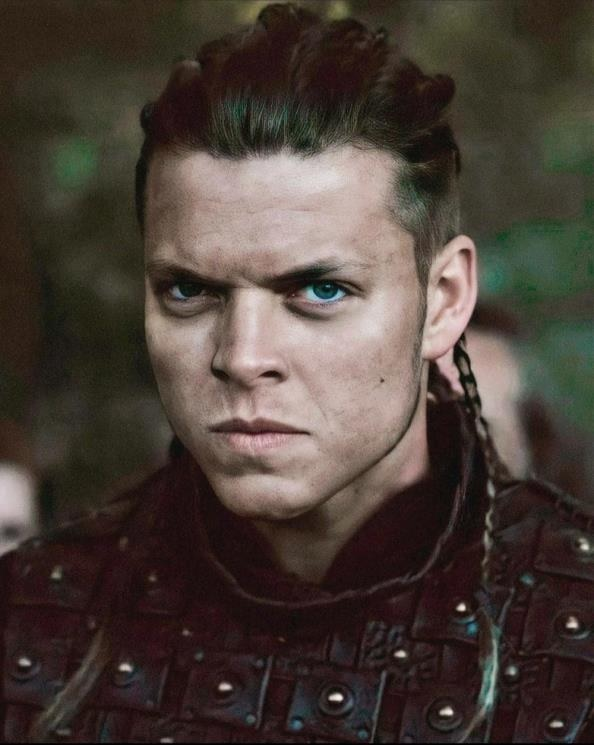
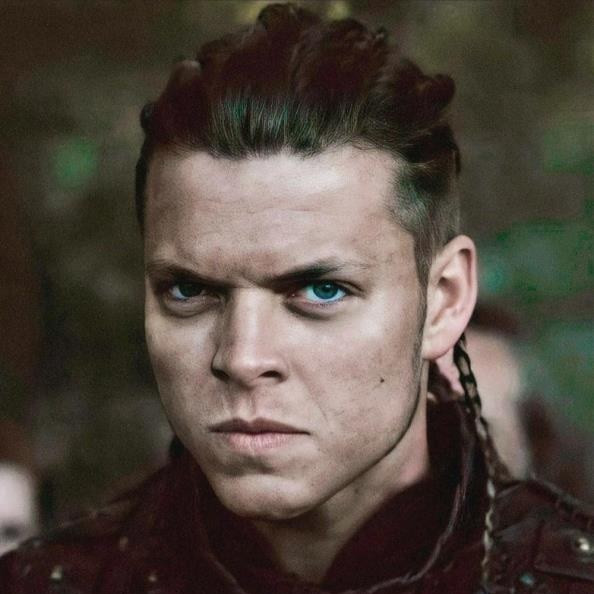
Cambios en los estilos y de contenidos de las pàginas personajes y reseñas
- Cambie las fotos de los personajes
- Reduje el contenido de reseñas
- En la página de personajes se agrega borde y color de fondo para los contenedores de los personajes
- Cambio en los estilos de la página personajes para adaptarse al modo pantalla de celular

diff --git a/resenas.html b/resenas.html
@@ -156,44 +156,17 @@
                                 fluida y un arco narrativo atractivo, los acontecimientos históricos a menudo se reducen, se
                                 combinan, se comprimen o se alteran de otro modo.
                             </p>
-                            <p class="parrafo__general">
-                                Un ejemplo notable de esto es cómo, en la Temporada 1:2, Ragnar ataca la Abadía de
-                                Lindisfarne en Northumbria (llevando al personaje ficticio de Athelstan) y en la Temporada 3:10
-                                a Rollo se le ofrecen tierras y a la princesa Gisla en matrimonio para defender Francia
-                                Occidental de cualquier futura incursión vikinga. El ataque histórico a Lindisfarne (por el cual
-                                no se nombra a ningún líder vikingo) se produjo en 793 CE, mientras se negociaba el acuerdo
-                                entre Carlos el Simple de Francia Occidental (r. 893-923 CE) y Rollo el jefe vikingo (r. 911-927
-                                CE) fue en 911 EC; Ragnar y Rollo tendrían entonces más de 100 años en el momento del tratado
-                                de Rollo con Carlos.
-                            </p>
-                            <p class="parrafo__general">
-                                El papel que desempeñaron regiones históricas como Wessex o Francia Occidental durante la
-                                época vikinga (c. 790-c. 1100 d. C.) se retrata con precisión en la serie, pero no siempre los
-                                eventos que tuvieron lugar en esas áreas.
-                            </p>
-                            <p class="parrafo__general">
-                                En la mayoría de los casos, los personajes que aparecen en el programa (y los lugares a los que
-                                viven o viajan) existieron, pero no en todos los casos. El pueblo de Kattegat, por ejemplo, que
-                                ocupa un lugar tan destacado, nunca existió. El verdadero Kattegat es en realidad un mar entre
-                                Dinamarca y Suecia y no hay registro de un pueblo escandinavo con ese nombre en ninguna
-                                parte.
-                            </p>
-                            <p class="parrafo__general">
-                                El personaje de Lagertha, aunque se la menciona en la Saga de Ragnar Lothbrok, es un
-                                personaje menor, no la madre de Bjorn Ironside, y nunca fue conde; Sin embargo, se la describe
-                                como una guerrera amazona, muy en línea con la forma en que se la retrata en la serie. El
-                                personaje de Floki es casi completamente ficticio, pero está basado en la figura histórica Floki
-                                Vilgerson (siglo IX d.C.), quien fundó Islandia.
-                            </p>
                         </div>
                     </article>
                     <aside class="articulos__secundarios">
-                        <h4>¿Cuánto sabes sobre los vikingos?</h4>
-                        <p class="parrafo__general">
-                            Los vikingos fueron los señores de los mares durante la Edad Media. Sin embargo, la idea que tenemos de ellos 
-                            está muy influenciada por el arte y la cultura popular. ¡Demuestra tus conocimientos históricos sobre los 
-                            vikingos en este test! <a href="https://historia.nationalgeographic.com.es/a/cuanto-sabes-sobre-vikingos_15067/1" target="_blank" class="contenido__link">Test sobre Vikingos de National Geographic</a>
-                        </p>
+                        <article class="articulo__secundario">
+                            <h4>¿Cuánto sabes sobre los vikingos?</h4>
+                            <p class="parrafo__general">
+                                Los vikingos fueron los señores de los mares durante la Edad Media. Sin embargo, la idea que tenemos de ellos 
+                                está muy influenciada por el arte y la cultura popular. ¡Demuestra tus conocimientos históricos sobre los 
+                                vikingos en este test! <a href="https://historia.nationalgeographic.com.es/a/cuanto-sabes-sobre-vikingos_15067/1" target="_blank" class="contenido__link">Test sobre Vikingos de National Geographic</a>
+                            </p>
+                        </article>
                     </aside>
                 </div>
                 <article class="articulo__principal">
@@ -207,7 +180,6 @@
                     </div>
                     <div class="articulo__principal__contenido">
                         <p class="parrafo__general">
-                            (...)<br>
                             A modo de resumen, la trama argumental de la serie Vikings gira en torno al personaje Ragnar Lodbrok, 
                             perteneciente a la sociedad vikinga, un granjero y valorado guerrero que se interesará por tierras 
                             más lejanas. Identificado con el dios Thor, realizará un camino de continua superación a través de 
@@ -221,52 +193,6 @@
                             monje, los retornos a Inglaterra se irán tornando más productivos hasta su llegada, por accidente, a 
                             otro territorio: Wessex, siendo en aquel lugar el encuentro con el monarca Ecbert, que considerará 
                             la llegada de los vikingos como una ocasión a la que intentar sacar provecho.
-                        </p>
-                        <p class="parrafo__general">
-                            Asimismo, cabe señalar el preámbulo de cada sociedad expuesta en la serie; Ragnar Lodbrok es 
-                            presentado en las primeras escenas como un habilidoso guerrero, padre de familia y ávido de curiosidad. 
-                            Lagertha, su mujer, es representada enseñando a su hija, Gilda, las tareas del hogar, tales como 
-                            pescar y tejer, mientras el primogénito, Björn, es enseñado a pelear por el padre e iniciado como 
-                            hombre en un ritual en la aldea (1x01, “Rites of Passage”). El primer capítulo deja tras de sí, 
-                            entonces, un primer acercamiento a la composición de la estructura familiar y las tareas asignadas a 
-                            cada miembro familiar de la sociedad vikinga. De esta manera, siguiendo a Geertz (1992: 54), entender 
-                            que más que un hábito o tradición, la tarea realizar las labores del hogar será para Gilda una 
-                            instrucción para manejarse en la sociedad una vez casada y con familia. Igualmente, Ragnar traslada a 
-                            su hijo los métodos de lucha eficaces para ser un respetado vikingo en el futuro. En definitiva, actos 
-                            y pensamientos sociales que contienen significaciones, facilitando la vida comunitaria con normas no 
-                            escritas (1992: 57). Por otro lado, en las primeras secuencias interviene otro escenario en la costa 
-                            inglesa, que muestra a Athelstan ataviado con vestimenta de monje y rezando, al señor Jesucristo, 
-                            debajo de una cruz cristiana. Un conjunto de artes y costumbres igualmente, y, en este sentido, un 
-                            caso paradigmático se presenta en este primer acercamiento a la sociedad vikinga: Ragnar ha descubierto 
-                            un rudimentario pero novedoso sistema de navegación, el cual a través de la sombra proyectada de una 
-                            piedra en una tabla les permitirá guiarse para realizar incursiones en el oeste. Un elemento cultural 
-                            que puede cambiar la tradición del poblado de realizar expediciones en el este, un hecho que no será 
-                            del agrado del detentor del poder en ese momento: el conde Haraldson. De esta forma, la brújula será el 
-                            elemento que permitirá ir a través de nuevas vías marítimas a Inglaterra: un lugar donde tendrá el 
-                            encuentro con otras sociedades y que pondrán en marcha las identidades políticas.
-                        </p>
-                        <p class="parrafo__general">
-                            (...)<br>
-                            En síntesis, realizando un breve recorrido por la trayectoria de Athelstan, se puede decir que realizó 
-                            su incorporación al poblado vikingo tal como lo hizo Malinowski (2005) en su primera incursión en el 
-                            poblado de mar del sur de Kula. Con la diferencia entre ambos que el primero fue en calidad de esclavo 
-                            en sus inicios, siendo no obstante posteriormente como un etnógrafo que se adapta a un nuevo modo de 
-                            vida para entender las costumbres del pueblo estudiado. Tal es así que se produjo una entrada en la 
-                            aldea repleta de curiosidad por el pueblo adoptante, como demuestran los niños de la familia al tocarle 
-                            y preguntarle y unas primeras muestras de cordialidad que eran cortadas por la falta de comprensión 
-                            cultural entre ambos. Hasta llegar, sin presión y de manera natural, un curso de la vida en armonía 
-                            con el poblado, logrando una identificación con ellos y su estilo de vida; y al igual que él se hizo a 
-                            la vida vikinga, ellos lo integraron en su rutina, ya sea con más o menos resistencia. Una integración 
-                            total, ya sea en religiosa; con la creencia en sus dioses, técnica; haciendo uso de sus armas; y 
-                            organizativa social, con el paso de esclavo a hombre libre. De esta forma, observando su manera de 
-                            actuar en casos concretos y deduciendo su maquinaria social, actuando como una especie de informante en 
-                            doble sentido, para los ingleses y para los vikingos. En el primer caso tal es el ejemplo de comentarles 
-                            como actuarían ellos ante la palabra de una mujer libre (“Anwers in Blood”, 2x05), en el segundo, 
-                            decirles las horas del domingo durante misa que la ciudad queda vacía e indefensa (“Wrath of the 
-                            Northmen”, 1x02). Así, realizando un trabajo de campo que se podría decir que es desde una perspectiva 
-                            emic, un punto de vista del nativo. Un símil que se puede usar sin olvidar que Athelstan, usando las 
-                            técnicas del etnógrafo, llegó allí para en principio quedarse.<br>
-                            (...)<br>
                         </p>
                     </div>
                 </article>

diff --git a/personajes.html b/personajes.html
@@ -66,12 +66,12 @@
         <div class="contenido__pagina">
             <h1>Vikingos - Personajes</h1>
             <article class="articulo__general">
-                <h2 id="ragnar">Ragnar 'Lothbrok' Sigurdsson</h2>
-                <div class="personajes__contenedor">
+                <div id="ragnar" class="personajes__contenedor">
                     <div class="personaje__cont__img">
                         <img src="images/personajes/ragnar.jpg" alt="Ragnar" title="Ragnar" class="personaje__img">
                     </div>
                     <div class="personaje__cont__parrafo">
+                        <h2>Ragnar 'Lothbrok' Sigurdsson</h2>
                         <p class="parrafo__general">
                             Ragnar "Lothbrok" Sigurdsson (nórdico
                             antiguo: Ragnarr Loðbrók, Ragnar significa
@@ -97,12 +97,12 @@
                 </div>
             </article>
             <article class="articulo__general">
-                <h2 id="lagertha">Lagertha</h2>
-                <div class="personajes__contenedor">
+                <div id="lagertha" class="personajes__contenedor">
                     <div class="personaje__cont__img">
                         <img src="images/personajes/lagertha.jpg" alt="Lagertha" title="Lagertha" class="personaje__img">
                     </div>
                     <div class="personaje__cont__parrafo">
+                        <h2>Lagertha</h2>
                         <p class="parrafo__general">
                             Lagertha es la primera y ex esposa de
                             Ragnar Lothbrok y la ex reina de Kattegat.
@@ -127,12 +127,12 @@
                 </div>
             </article>
             <article class="articulo__general">
-                <h2 id="floki">Floki</h2>
-                <div class="personajes__contenedor">
+                <div id="floki" class="personajes__contenedor">
                     <div class="personaje__cont__img">
                         <img src="images/personajes/floki.jpg" alt="Floki" title="Floki" class="personaje__img">
                     </div>
                     <div class="personaje__cont__parrafo">
+                        <h2>Floki</h2>
                         <p class="parrafo__general">
                             Floki es un constructor de barcos y un
                             bromista incorregible, que también es el
@@ -156,25 +156,16 @@
                             como un estudiante del mundo que lo
                             rodea, y siempre está en guardia.
                         </p>
-                        <p class="parrafo__general">
-                            Su tendencia a ser impetuoso, y reaccionar con enojo se presume que es por la inseguridad
-                            sobre su destreza como luchador, y su estatus entre otros vikingos, sin embargo, lo mantiene
-                            alejado para intentar guiar a Ragnar y hacer que tome buenas decisiones, en la sociedad
-                            vikinga, el ser viejo significa ser desafortunado, el conocimiento es secundario a la locura de
-                            combate, en que un hombre solo se propone para la batalla, y las virtudes del conocimiento
-                            que van de la mano con ser valientes y feroces otorgadas por Odin fueron silenciadas por
-                            políticos y otros hombres arrogantes y vistosos.
-                        </p>
                     </div>
                 </div>
             </article>
             <article class="articulo__general">
-                <h2 id="athelstan">Athelstan</h2>
-                <div class="personajes__contenedor">
+                <div id="athelstan" class="personajes__contenedor">
                     <div class="personaje__cont__img">
                         <img src="images/personajes/athelstan.jpg" alt="Athelstan" title="Athelstan" class="personaje__img">
                     </div>
                     <div class="personaje__cont__parrafo">
+                        <h2>Athelstan</h2>
                         <p class="parrafo__general">
                             Athelstan era un joven anglosajón, una vez
                             un monje cristiano tomado como esclavo
@@ -205,12 +196,12 @@
                 </div>
             </article>
             <article class="articulo__general">
-                <h2 id="rollo">Rollo of Normandy</h2>
-                <div class="personajes__contenedor">
+                <div id="rollo" class="personajes__contenedor">
                     <div class="personaje__cont__img">
                         <img src="images/personajes/rollo.jpg" alt="Rollo of Normandy" title="Rollo of Normandy" class="personaje__img">
                     </div>
                     <div class="personaje__cont__parrafo">
+                        <h2>Rollo of Normandy</h2>
                         <p class="parrafo__general">
                             Rollo es el hermano mayor de Ragnar
                             Lothbrok. El ex esposo de Gisla y padre de
@@ -237,12 +228,12 @@
                 </div>
             </article>
             <article class="articulo__general">
-                <h2 id="bjorn">Björn</h2>
-                <div class="personajes__contenedor">
+                <div id="bjorn" class="personajes__contenedor">
                     <div class="personaje__cont__img">
                         <img src="images/personajes/bjorn.jpg" alt="Björn" title="Björn" class="personaje__img">
                     </div>
                     <div class="personaje__cont__parrafo">
+                        <h2>Björn</h2>
                         <p class="parrafo__general">
                             Bjorn brazo de hierro es el Rey de Kattegat
                             y el hijo mayor de Ragnar Lothbrok y
@@ -270,12 +261,12 @@
                 </div>
             </article>
             <article class="articulo__general">
-                <h2 id="ivar">Ivar Ragnarsson</h2>
-                <div class="personajes__contenedor">
+                <div id="ivar" class="personajes__contenedor">
                     <div class="personaje__cont__img">
                         <img src="images/personajes/ivar.jpg" alt="Ivar Ragnarsson" title="Ivar Ragnarsson" class="personaje__img">
                     </div>
                     <div class="personaje__cont__parrafo">
+                        <h2>Ivar Ragnarsson</h2>
                         <p class="parrafo__general">
                             Ivar es uno de los hijos de Ragnar, el cual
                             nace con un problema en las piernas lo cual
@@ -298,12 +289,12 @@
                 </div>
             </article>
             <article class="articulo__general">
-                <h2 id="ubbe">Ubbe Ragnarsson</h2>
-                <div class="personajes__contenedor">
+                <div id="ubbe" class="personajes__contenedor">
                     <div class="personaje__cont__img">
                         <img src="images/personajes/ubbe.jpg" alt="Ubbe Ragnarsson" title="Ubbe Ragnarsson" class="personaje__img">
                     </div>
                     <div class="personaje__cont__parrafo">
+                        <h2>Ubbe Ragnarsson</h2>
                         <p class="parrafo__general">
                             Ubbe es el primer hijo de Ragnar y Aslaug.
                             Fue concebido fuera del matrimonio, lo que
@@ -326,12 +317,12 @@
                 </div>
             </article>
             <article class="articulo__general">
-                <h2 id="harald">Harald "Finehair" Halfdansson</h2>
-                <div class="personajes__contenedor">
+                <div id="harald" class="personajes__contenedor">
                     <div class="personaje__cont__img">
                         <img src="images/personajes/harald.jpg" alt="Harald 'Finehair' Halfdansson" title="Harald 'Finehair' Halfdansson" class="personaje__img">
                     </div>
                     <div class="personaje__cont__parrafo">
+                        <h2>Harald "Finehair" Halfdansson</h2>
                         <p class="parrafo__general">
                             Harald "Finehair" Halfdansson es un señor
                             de la guerra y rey escandinavo. Fue una

diff --git a/css/estilos.css b/css/estilos.css
@@ -181,15 +181,23 @@ form textarea{
 .personajes__contenedor{
 	display: flex;
 	justify-content: space-between;
+	background-color: #fffddb;
+	border-style: solid;
+	border-color: #000000;
+	border-width: 2px;
+	border-radius: 1rem;
+	padding: 2rem;
 }
 .personaje__cont__img{
-	margin: 2rem;
+	width: 33%;
 }
 .personaje__cont__parrafo{
-	margin: 2rem;
+	width: 66%;
+	padding-left: 2rem;
 }
 .personaje__img{
-	height: 20rem;
+	width: 100%;
+	height: 100%;
 }
 .galeria{
 	display: flex;
@@ -266,7 +274,10 @@ form textarea{
 	border-width: 2px;
 }
 .articulos__secundarios{
-	width: 40%;
+	width: 60%;
+	padding-left: 2rem;
+}
+.articulo__secundario{
 	background-color: rgb(182, 255, 231);
 	border-style: solid;
 	border-color: #000000;
@@ -425,16 +436,21 @@ form textarea{
 		justify-content: center;
 		align-items: center;
 		margin-bottom: 2rem;
-	}
-	.articulos__columna{
 		width: 100%;
-		padding-left: 1rem;
-		padding-right: 1rem;
 	}
+	.articulo__principal,
 	.articulos__secundarios{
-		width: 80%;
-		padding: 1rem;
+		width: 100%;
+		padding: 0;
 		margin: 0;
+	}
+	.articulo__principal__contenido,
+	.articulo__secundario{
+		width: 100%;
+		margin-top: 0.5rem;
+		margin-bottom: 0.5rem;
+		margin-left: 0;
+		margin-right: 0;
 	}
 	.video__trailer{
 		width: 100%;
@@ -443,5 +459,23 @@ form textarea{
 	.video__frame{
 		width: 100%;
 		height: 15rem;
+	}
+	.personajes__contenedor{
+		flex-direction: column;
+		justify-content: center;
+		padding: 1rem;
+	}
+	.personaje__cont__img{
+		width: 100%;
+	}
+	.personaje__cont__parrafo{
+		width: 100%;
+		padding-left: 0;
+		padding-top: 1rem;
+		margin: 0;
+	}
+	.personaje__img{
+		height: 100%;
+		width: 100%;
 	}
 }
